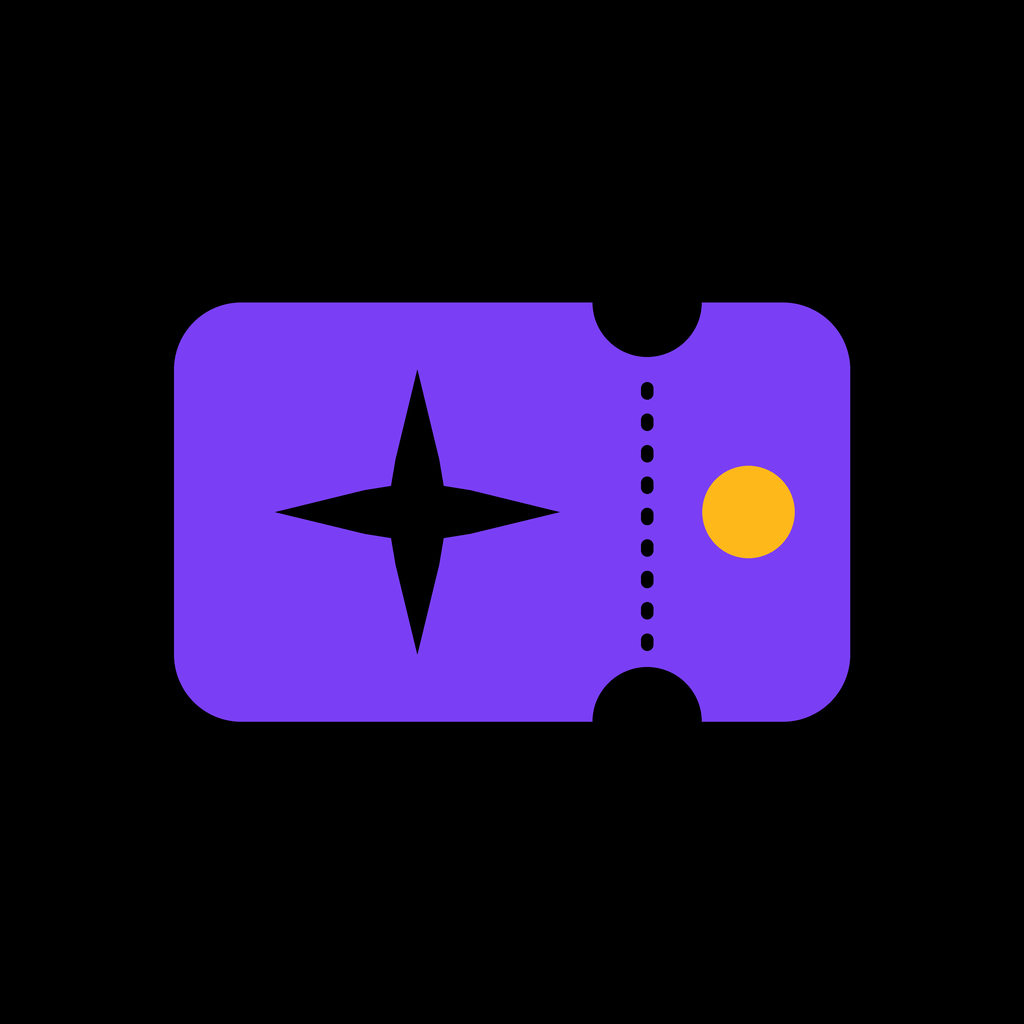
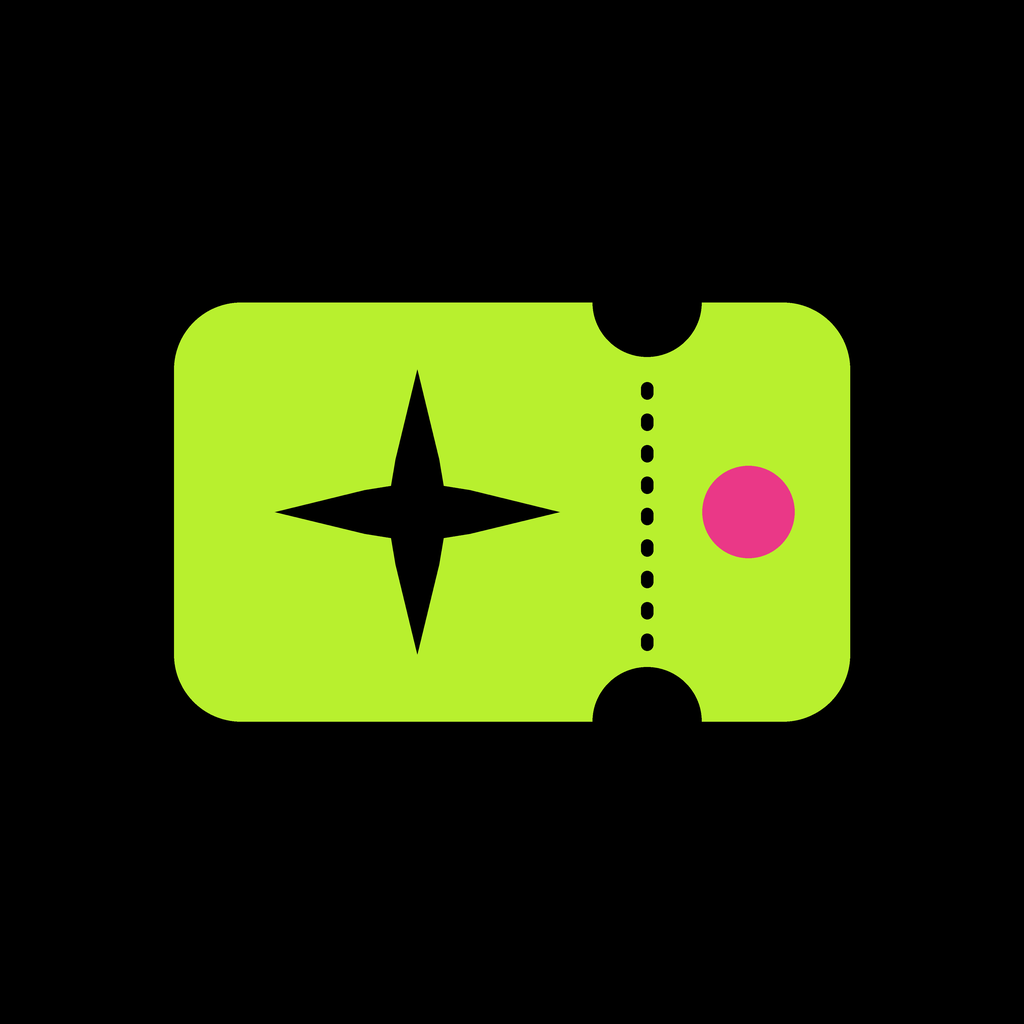
Swap the brand options for Gen Z colours and default to Brat lime
Light brands like lime now split fill colour (buttons, chips, tab pill)
from tint (icons, links), so ink text sits on lime. Options: lime, pink,
blue, cobalt. Icon, splash and notification colour redrawn in lime.

Claude-Session: https://claude.ai/code/session_018wXzQ63tdfSYMXi6E6qjKR

Changed region(s): [[0.1562, 0.2812, 0.8438, 0.7188]]

diff --git a/src/lib/theme.ts b/src/lib/theme.ts
@@ -9,63 +9,103 @@
  * scripts/make-icons.py and app.json and must be regenerated to match.
  */
 const BRANDS = {
-  /** Lion Rock violet with campus gold: a nod to CUHK purple and gold, brighter and more digital. */
-  violet: {
+  /** Brat lime with ink and pop pink: lime fills, ink text and icons on top, pink dates. */
+  lime: {
     brand: {
-      50: '#F4F0FF',
-      100: '#EBE3FF',
-      200: '#D3C2FF',
-      300: '#B497FF',
-      400: '#9466FF',
-      500: '#7A3FF5',
-      600: '#6A2BE0',
-      700: '#5420B8',
-      800: '#3F1890',
-      900: '#24104A',
-      950: '#160A30',
+      50: '#F9FEEE',
+      100: '#F4FDDE',
+      200: '#E6FAB6',
+      300: '#D8F78C',
+      400: '#C8F35C',
+      500: '#BFF243',
+      600: '#B8F02E',
+      700: '#97C526',
+      800: '#769A1D',
+      900: '#4A6012',
+      950: '#2E3C0C',
     },
     accent: {
-      50: '#FFF8E6',
-      100: '#FFEFC2',
-      200: '#FFDF85',
-      300: '#FFCB47',
-      400: '#FFB81A',
-      500: '#F5A400',
-      600: '#C98500',
-      700: '#8A5A00',
-      800: '#6B4500',
-      900: '#3A2500',
+      50: '#FDEDF3',
+      100: '#FADAE8',
+      200: '#F4AECD',
+      300: '#EE80B0',
+      400: '#E74B8F',
+      500: '#E32F7D',
+      600: '#E0186F',
+      700: '#B8145B',
+      800: '#8F0F47',
+      900: '#5A0A2C',
+    },
+    roles: {
+      fill: '#B8F02E',
+      onFill: '#0A0A0B',
+      tint: '#0A0A0B',
+      tintPressed: '#2C2C2E',
+      soft: '#D8F78C',
+      text: '#4A6012',
+      accentText: '#BE1C64',
     },
   },
-  /** Harbour jade with tangerine: Hong Kong jade and green hills, far from other uni apps. */
-  jade: {
+  /** Pop pink with butter yellow. */
+  pink: {
     brand: {
-      50: '#E8F7F2',
-      100: '#D2F0E6',
-      200: '#9EE0CB',
-      300: '#62C9A9',
-      400: '#2BAF88',
-      500: '#009670',
-      600: '#00795A',
-      700: '#006349',
-      800: '#004D39',
-      900: '#013326',
-      950: '#011F17',
+      50: '#FDEDF3',
+      100: '#FADAE8',
+      200: '#F4AECD',
+      300: '#EE80B0',
+      400: '#E74B8F',
+      500: '#E32F7D',
+      600: '#E0186F',
+      700: '#B8145B',
+      800: '#8F0F47',
+      900: '#5A0A2C',
+      950: '#38061C',
     },
     accent: {
-      50: '#FFF4EC',
-      100: '#FFE4D1',
-      200: '#FFC8A3',
-      300: '#FFA66B',
-      400: '#FF8A3D',
-      500: '#FF6F0F',
-      600: '#E05A00',
-      700: '#B34700',
-      800: '#853500',
-      900: '#3A1A04',
+      50: '#FFFCF1',
+      100: '#FFF9E3',
+      200: '#FFF1C1',
+      300: '#FFEA9D',
+      400: '#FFE174',
+      500: '#FFDC5F',
+      600: '#FFD84D',
+      700: '#8A6500',
+      800: '#6B4E00',
+      900: '#66561F',
+      950: '#403613',
     },
+    roles: {},
   },
-  /** Electric cobalt with tangerine: the v2 design colours, used loudly. */
+  /** Luminous blue (WGSN colour of 2027) with pop pink. */
+  blue: {
+    brand: {
+      50: '#EEF1FF',
+      100: '#DDE2FF',
+      200: '#B5C0FF',
+      300: '#8A9CFF',
+      400: '#5A73FF',
+      500: '#405DFF',
+      600: '#2B4BFF',
+      700: '#233ED1',
+      800: '#1C30A3',
+      900: '#111E66',
+      950: '#0B1340',
+    },
+    accent: {
+      50: '#FDEDF3',
+      100: '#FADAE8',
+      200: '#F4AECD',
+      300: '#EE80B0',
+      400: '#E74B8F',
+      500: '#E32F7D',
+      600: '#E0186F',
+      700: '#B8145B',
+      800: '#8F0F47',
+      900: '#5A0A2C',
+    },
+    roles: { accentText: '#BE1C64' },
+  },
+  /** Electric cobalt with tangerine: the v2 design colours. */
   cobalt: {
     brand: {
       50: '#EEF2FF',
@@ -92,13 +132,21 @@ const BRANDS = {
       800: '#853500',
       900: '#3A1A04',
     },
+    roles: {},
   },
 } as const;
 
 export type BrandName = keyof typeof BRANDS;
 export const BRAND: BrandName =
-  (process.env.EXPO_PUBLIC_BRAND as BrandName) in BRANDS ? (process.env.EXPO_PUBLIC_BRAND as BrandName) : 'violet';
+  (process.env.EXPO_PUBLIC_BRAND as BrandName) in BRANDS ? (process.env.EXPO_PUBLIC_BRAND as BrandName) : 'lime';
 const { brand, accent } = BRANDS[BRAND];
+/**
+ * Most brands are dark enough to carry white text and to draw icons and links on white, so one
+ * colour does both. A light brand (lime) splits them: `fill` paints buttons, chips and the
+ * current tab, with `onFill` on top, and `tint` (icons, borders, links) is a dark colour.
+ */
+const roles: { fill?: string; onFill?: string; tint?: string; tintPressed?: string; soft?: string; text?: string; accentText?: string } =
+  BRANDS[BRAND].roles;
 
 /** "#6A2BE0", 0.24 -> "rgba(106,43,224,0.24)" */
 function alpha(hex: string, a: number) {
@@ -137,14 +185,18 @@ const light = {
   purpleLight: brand[500] as string,
   gold: accent[500] as string,
 
-  /** Primary action, current tab, selected filter chip. */
-  tint: brand[600] as string,
-  tintPressed: brand[700] as string,
+  /** Primary button, selected filter chip, current-tab pill, progress bars. */
+  brand: roles.fill ?? (brand[600] as string),
+  brandPressed: brand[700] as string,
+  onBrand: roles.onFill ?? '#FFFFFF',
+  /** Brand-coloured icons, borders, switches and the focus ring on white. */
+  tint: roles.tint ?? (brand[600] as string),
+  tintPressed: roles.tintPressed ?? (brand[700] as string),
   onTint: '#FFFFFF',
-  /** Follow button, "Going" pill, bell-on, current tab pill. */
-  tintSoft: brand[100] as string,
-  /** Links, plain buttons, verified tick. */
-  tintText: brand[600] as string,
+  /** Follow button, "Going" pill, bell-on. */
+  tintSoft: roles.soft ?? (brand[100] as string),
+  /** Links, plain buttons, text on tintSoft. */
+  tintText: roles.text ?? (brand[600] as string),
   /** Brand-filled hero surfaces (sign-in, welcome, splash). */
   brandStrong: brand[700] as string,
 
@@ -152,7 +204,7 @@ const light = {
   accent: accent[500] as string,
   accentSoft: accent[100] as string,
   /** Event dates in lists, campus labels. */
-  accentText: accent[700] as string,
+  accentText: roles.accentText ?? (accent[700] as string),
 
   /** Grouped screens (Profile, Manage, forms). */
   background: '#F5F5F7',
@@ -177,7 +229,7 @@ const light = {
   disabledFill: '#EDEDF0',
   disabledText: '#A1A1A6',
   /** 3pt halo outside a 2pt tint border. */
-  focusRing: alpha(brand[600], 0.24),
+  focusRing: alpha(roles.fill ?? brand[600], 0.35),
 
   success: '#078040',
   successSoft: '#E3F7EA',
@@ -204,6 +256,9 @@ const dark: typeof light = {
   purpleLight: brand[300],
   gold: accent[400],
 
+  brand: roles.fill ?? brand[500],
+  brandPressed: brand[400],
+  onBrand: roles.onFill ?? '#FFFFFF',
   tint: brand[500],
   tintPressed: brand[400],
   onTint: '#FFFFFF',
@@ -347,7 +402,7 @@ export const categoryArt: Record<string, { cover: string; coverDark: string; ico
   Performance: { cover: '#7C3AED', coverDark: '#7C3AED', icon: 'musical-notes-outline' },
   Career: { cover: '#18181B', coverDark: '#3A3A3F', icon: 'briefcase-outline' },
   Volunteering: { cover: '#D92D20', coverDark: '#D92D20', icon: 'heart-outline' },
-  Orientation: { cover: brand[600], coverDark: brand[500], icon: 'compass-outline' },
+  Orientation: { cover: roles.tint ?? brand[600], coverDark: brand[500], icon: 'compass-outline' },
   Other: { cover: '#52525B', coverDark: '#5A5A63', icon: 'sparkles-outline' },
 };
 
@@ -362,7 +417,7 @@ export const avatarArt: Record<AvatarFamily, { light: readonly [string, string];
   Violet: { light: ['#EFE7FE', '#6D28D9'], dark: ['#24104A', '#B794FF'], cover: '#7C3AED' },
   Graphite: { light: ['#E8E8EB', '#18181B'], dark: ['#2C2C2E', '#D4D4D8'], cover: '#18181B' },
   Red: { light: ['#FDE8E6', '#B42318'], dark: ['#3D0F0C', '#FF6B61'], cover: '#D92D20' },
-  Cobalt: { light: [brand[100], brand[600]], dark: [brand[900], brand[300]], cover: brand[600] },
+  Cobalt: { light: [brand[100], roles.text ?? brand[600]], dark: [brand[900], brand[300]], cover: roles.tint ?? brand[600] },
   Slate: { light: ['#EDEDF0', '#48484A'], dark: ['#2C2C2E', '#C7C7CC'], cover: '#52525B' },
 };
 

diff --git a/src/components/ui.tsx b/src/components/ui.tsx
@@ -93,7 +93,7 @@ export function Button({ title, onPress, variant = 'primary', icon, loading, dis
   const c = useColors();
   const colors: Record<ButtonVariant, [string, string, string]> = {
     // [background, label, pressed background]
-    primary: [c.tint, c.onTint, c.tintPressed],
+    primary: [c.brand, c.onBrand, c.brandPressed],
     secondary: [c.fill, c.text, c.fillStrong],
     tinted: [c.tintSoft, c.tintText, c.tintSoft],
     outline: ['transparent', c.textSecondary, 'transparent'],
@@ -144,7 +144,7 @@ export function Button({ title, onPress, variant = 'primary', icon, loading, dis
 /** Filter chip. Selected chips take the brand colour. */
 export function Chip({ label, selected, onPress, icon }: { label: string; selected?: boolean; onPress?: () => void; icon?: IconName }) {
   const c = useColors();
-  const fg = selected ? c.onTint : c.text;
+  const fg = selected ? c.onBrand : c.text;
   return (
     <Pressable
       accessibilityRole="button"
@@ -156,7 +156,7 @@ export function Chip({ label, selected, onPress, icon }: { label: string; select
       }}
       style={({ pressed }) => [
         styles.chip,
-        { backgroundColor: selected ? c.tint : c.card, borderColor: selected ? c.tint : c.border, opacity: pressed ? 0.8 : 1 },
+        { backgroundColor: selected ? c.brand : c.card, borderColor: selected ? c.brand : c.border, opacity: pressed ? 0.8 : 1 },
       ]}>
       {icon && <Ionicons name={icon} size={14} color={fg} />}
       <Text style={[styles.chipText, { color: fg }]}>{label}</Text>
@@ -167,7 +167,7 @@ export function Chip({ label, selected, onPress, icon }: { label: string; select
 /** Grey filter pill that opens a menu (Search): label plus a chevron; brand colour when a value is picked. */
 export function DropChip({ label, selected, onPress, icon }: { label: string; selected?: boolean; onPress: () => void; icon?: IconName }) {
   const c = useColors();
-  const fg = selected ? c.onTint : c.text;
+  const fg = selected ? c.onBrand : c.text;
   return (
     <Pressable
       accessibilityRole="button"
@@ -180,7 +180,7 @@ export function DropChip({ label, selected, onPress, icon }: { label: string; se
       style={({ pressed }) => [
         styles.dropChip,
         icon ? { paddingLeft: 12, paddingRight: 12, gap: 6 } : null,
-        { backgroundColor: selected ? c.tint : pressed ? c.fillStrong : c.fill },
+        { backgroundColor: selected ? c.brand : pressed ? c.fillStrong : c.fill },
       ]}>
       {icon && <Ionicons name={icon} size={17} color={fg} />}
       <Text style={[styles.chipText, { color: fg }]}>{label}</Text>

diff --git a/src/app/welcome.tsx b/src/app/welcome.tsx
@@ -83,7 +83,7 @@ export default function Welcome() {
         )}
         <View style={{ flexDirection: 'row', gap: 4 }} accessibilityElementsHidden importantForAccessibility="no-hide-descendants">
           {[1, 2].map((n) => (
-            <View key={n} style={[styles.stepBar, { backgroundColor: n <= step ? c.tint : c.border }]} />
+            <View key={n} style={[styles.stepBar, { backgroundColor: n <= step ? c.brand : c.border }]} />
           ))}
         </View>
         <Text style={{ flex: 1, fontSize: 13, color: c.textSecondary }}>{t('Step {n} of {total}', { n: step, total: 2 })}</Text>
@@ -104,8 +104,8 @@ export default function Welcome() {
         {step === 1 ? (
           <>
             <View style={{ gap: 10 }}>
-              <View style={[styles.appIcon, { backgroundColor: c.tint }]}>
-                <Icon name="ticket-outline" size={28} color="#FFFFFF" />
+              <View style={[styles.appIcon, { backgroundColor: c.brand }]}>
+                <Icon name="ticket-outline" size={28} color={c.onBrand} />
               </View>
               <Text style={[textStyle('title1', lang), { color: c.text, marginTop: 4, letterSpacing: -0.3 }]} accessibilityRole="header">
                 {t('Welcome to Campus Social')}

diff --git a/src/components/BrandMark.tsx b/src/components/BrandMark.tsx
@@ -14,12 +14,12 @@ export function BrandMark({ size = 34 }: { size?: number }) {
         width: size,
         height: size,
         borderRadius: avatarRadius(size),
-        backgroundColor: c.tint,
+        backgroundColor: c.brand,
         alignItems: 'center',
         justifyContent: 'center',
       }}>
       <Svg width={size * 0.7} height={size * 0.7} viewBox="0 0 24 24">
-        <Path d="M10 3C10.8 8.2 13.8 11.2 19 12C13.8 12.8 10.8 15.8 10 21C9.2 15.8 6.2 12.8 1 12C6.2 11.2 9.2 8.2 10 3Z" fill={c.onTint} />
+        <Path d="M10 3C10.8 8.2 13.8 11.2 19 12C13.8 12.8 10.8 15.8 10 21C9.2 15.8 6.2 12.8 1 12C6.2 11.2 9.2 8.2 10 3Z" fill={c.onBrand} />
         <Circle cx={20} cy={5} r={2.6} fill={c.accent} />
       </Svg>
     </View>

diff --git a/src/components/BannerCarousel.tsx b/src/components/BannerCarousel.tsx
@@ -77,7 +77,7 @@ export function BannerCarousel({ banners }: { banners: BannerWithLinks[] }) {
       {banners.length > 1 && (
         <View style={styles.dots}>
           {banners.map((b, i) => (
-            <View key={b.id} style={[styles.dot, { backgroundColor: i === index ? c.tint : c.border, width: i === index ? 18 : 6 }]} />
+            <View key={b.id} style={[styles.dot, { backgroundColor: i === index ? c.brand : c.border, width: i === index ? 18 : 6 }]} />
           ))}
         </View>
       )}

diff --git a/scripts/make-icons.py b/scripts/make-icons.py
@@ -20,17 +20,19 @@ def rgb(hex_):
     return tuple(int(hex_[i : i + 2], 16) for i in (1, 3, 5))
 
 
-# Brand 500 -> 700 gradient, brand 600 sparkle, accent 500 dot; dark icon uses brand 500 and accent 400.
+# Background gradient, ticket colour, sparkle (brand), dot (accent); dark icon uses `main` for the ticket.
 BRANDS = {
-    "violet": dict(top="#7A3FF5", bottom="#5420B8", main="#6A2BE0", dot="#F5A400", dot_dark="#FFB81A"),
-    "jade": dict(top="#009670", bottom="#006349", main="#00795A", dot="#FF6F0F", dot_dark="#FF8A3D"),
-    "cobalt": dict(top="#3D63FF", bottom="#1A3CC4", main="#2450F0", dot="#FF6F0F", dot_dark="#FF8A3D"),
+    "lime": dict(top="#C8F35C", bottom="#97C526", main="#B8F02E", ticket="#0A0A0B", dot="#E0186F", dot_dark="#EA3887"),
+    "pink": dict(top="#EA3887", bottom="#B8145B", main="#E0186F", ticket="#FFFFFF", dot="#FFD84D", dot_dark="#FFE174"),
+    "blue": dict(top="#405DFF", bottom="#233ED1", main="#2B4BFF", ticket="#FFFFFF", dot="#E0186F", dot_dark="#EA3887"),
+    "cobalt": dict(top="#3D63FF", bottom="#1A3CC4", main="#2450F0", ticket="#FFFFFF", dot="#FF6F0F", dot_dark="#FF8A3D"),
 }
-B = BRANDS[os.environ.get("BRAND", "violet")]
+B = BRANDS[os.environ.get("BRAND", "lime")]
 COBALT_TOP = rgb(B["top"])
 COBALT_BOTTOM = rgb(B["bottom"])
 COBALT = rgb(B["main"])
 TANGERINE = rgb(B["dot"])
+TICKET = rgb(B["ticket"])
 WHITE = (255, 255, 255)
 BLACK = (0, 0, 0)
 
@@ -59,8 +61,9 @@ def sparkle(draw, cx, cy, r, fill):
     draw.polygon(pts, fill=fill)
 
 
-def ticket_layer(scale, ink=WHITE, star=COBALT, dot=TANGERINE, mono=False):
+def ticket_layer(scale, ink=None, star=COBALT, dot=TANGERINE, mono=False):
     """Ticket centred on a transparent N x N canvas. `scale` is ticket width / canvas."""
+    ink = ink or TICKET
     layer = Image.new("RGBA", (N, N), (0, 0, 0, 0))
     d = ImageDraw.Draw(layer)
     w = N * scale
@@ -109,7 +112,7 @@ save(icon, "favicon.png", size=48, mode="RGB")
 # iOS 18+ home screen: dark mode shows a brand-coloured ticket on black; tinted mode
 # recolours a greyscale icon, so the ticket is white and the dot mid-grey.
 black = Image.new("RGBA", (N, N), BLACK + (255,))
-save(Image.alpha_composite(black, ticket_layer(0.66, ink=COBALT_TOP, star=BLACK, dot=rgb(B["dot_dark"]))), "icon-dark.png", mode="RGB")
+save(Image.alpha_composite(black, ticket_layer(0.66, ink=COBALT, star=BLACK, dot=rgb(B["dot_dark"]))), "icon-dark.png", mode="RGB")
 save(Image.alpha_composite(black, ticket_layer(0.66, ink=WHITE, star=BLACK, dot=(150, 150, 150))), "icon-tinted.png", mode="RGB")
 save(bg, "android-icon-background.png")
 # Adaptive icons are cropped to a circle/squircle of ~66% of the canvas.

diff --git a/docs/design-handoff.md b/docs/design-handoff.md
@@ -2,7 +2,7 @@
 
 Prepared 26 Oct 2026 from the Claude Design canvas **Campus Social Redesign** (private link, ask Anson for access). Use it alongside the canvas, where every value below is drawn. Everything here maps onto `src/lib/theme.ts`, `src/components/ui.tsx` and the existing component files.
 
-> **Brand update (2026-10-28):** the app now has one signature brand colour, set by `BRAND` in `src/lib/theme.ts` (default: Lion Rock violet `#6A2BE0` with campus gold `#F5A400`). Cobalt and tangerine values below are the v2 originals; read them as `palette.brand` / `palette.accent`. The brand colour now also fills selected chips and the current tab's pill, and the brand mark sits beside the Discover title and on sign-in. Redraw the icon and splash with `BRAND=<name> python3 scripts/make-icons.py` and update the three colours in `app.json`.
+> **Brand update (2026-10-29):** the app has one signature brand colour, set by `BRAND` in `src/lib/theme.ts` (default: Brat lime `#B8F02E` with ink `#0A0A0B` and pop pink `#E0186F`; also `pink`, `blue`, `cobalt`). Cobalt and tangerine values below are the v2 originals; read them as `palette.brand` / `palette.accent`. Fills (primary button, selected chips, current-tab pill, progress) use `brand`/`onBrand`; icons, borders and links use `tint`/`tintText`, which for a light brand like lime are dark. Redraw the icon and splash with `BRAND=<name> python3 scripts/make-icons.py` and update the three colours in `app.json`.
 
 **Direction in one line:** sharp, big-tech look (Apple / Google style). True white and black surfaces, neutral greys, one electric cobalt for the single primary action per screen, a tangerine accent for dates, and vivid flat category colours for event covers. CUHK purple and gold are retired.
 
